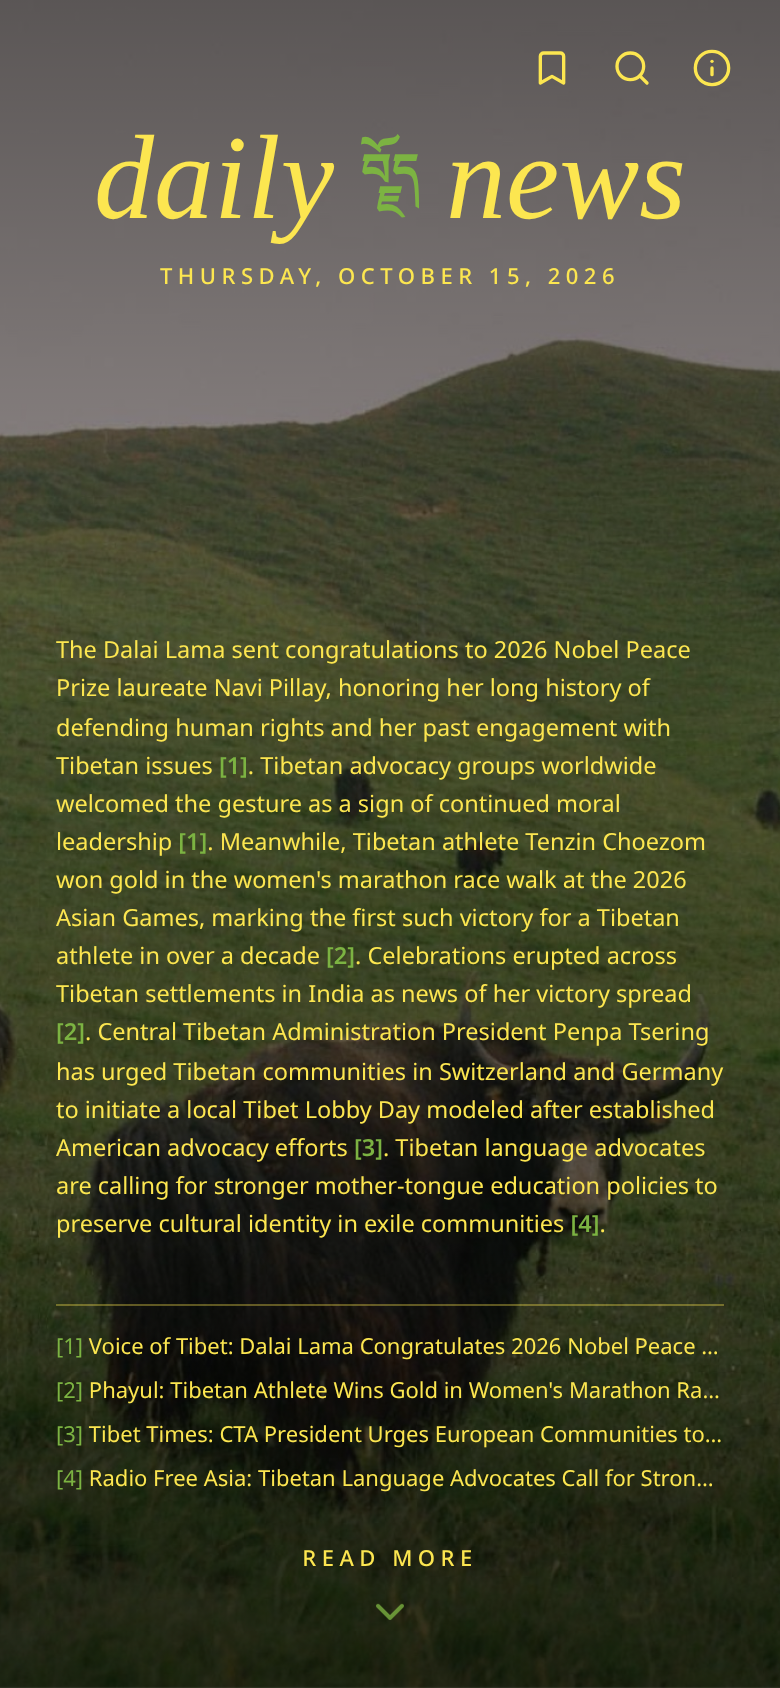
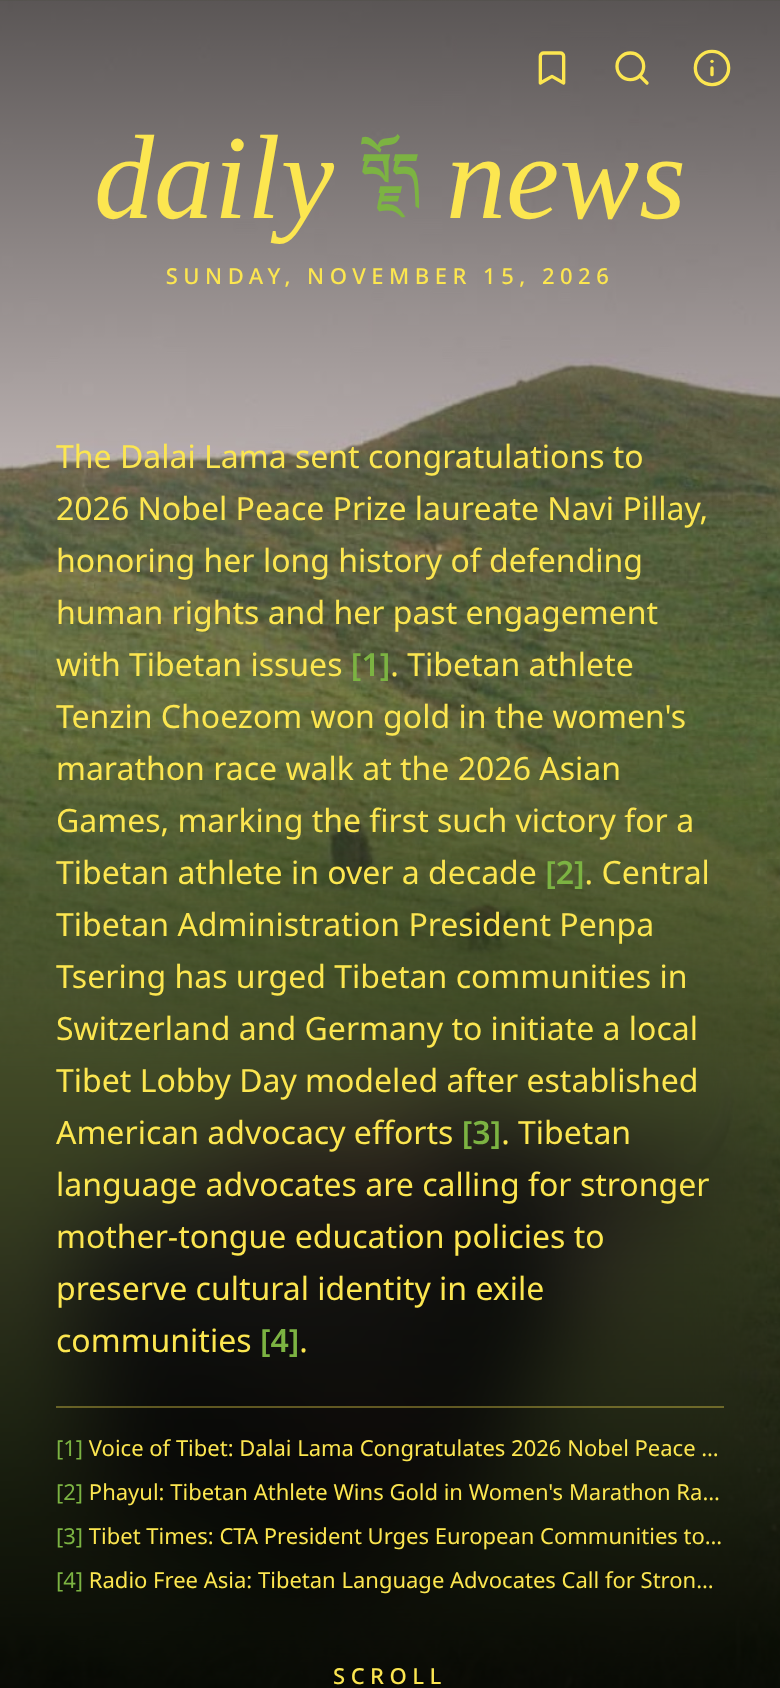
Scrollable Daily homepage: blurred hero, black article feed, dark mode only

diff --git a/client/src/pages/daily-homepage.tsx b/client/src/pages/daily-homepage.tsx
@@ -1,15 +1,20 @@
-import { useEffect, useLayoutEffect, useRef, useState } from 'react';
+import { useEffect, useRef, useState } from 'react';
 import { useNavigate } from 'react-router-dom';
 import { Bookmark, ChevronDown, Info, Search } from 'lucide-react';
 import { BhoeJaSeal } from '../components/bhoe-ja-seal';
 import { AboutSheet } from '../components/about-sheet';
 import { SearchDialog } from '../components/search-dialog';
+import { ArticleFeed } from './article-feed';
+import { VideoFeed } from './video-feed';
 import { useAppStore } from '../store/app-store';
 import { fetchDailySummary } from '../lib/api';
 import { EMPTY_FILTERS, type DailySummary, type SearchFilters } from '../types';
+import { cn } from '../lib/utils';
 
 const TEXT_YELLOW = '#fce650';
 const ACCENT_CLOVER = '#7CB342';
+
+type FeedTab = 'english' | 'tibetan' | 'videos';
 
 /** Render the overview with [N] citation markers in the accent green. */
 function CitedOverview({ text }: { text: string }) {
@@ -104,8 +109,8 @@ export function DailyHomepage({
   const [failed, setFailed] = useState(false);
   const [searchOpen, setSearchOpen] = useState(false);
   const [aboutOpen, setAboutOpen] = useState(false);
-  const summarySectionRef = useRef<HTMLElement>(null);
-  const summaryTextRef = useRef<HTMLParagraphElement>(null);
+  const [feedTab, setFeedTab] = useState<FeedTab>('english');
+  const feedRef = useRef<HTMLElement>(null);
 
   useEffect(() => {
     let cancelled = false;
@@ -121,67 +126,54 @@ export function DailyHomepage({
     };
   }, []);
 
-  // Fluid summary type: binary-search the largest font size at which the full
-  // digest fits in the available space, so the whole page always fits on one
-  // screen with the 20dvh header gap intact.
-  useLayoutEffect(() => {
-    const section = summarySectionRef.current;
-    const p = summaryTextRef.current;
-    if (!section || !p) return;
-
-    const fit = () => {
-      const available = section.clientHeight;
-      if (available <= 0) return;
-      const isDesktop = window.matchMedia('(min-width: 768px)').matches;
-      const minSize = isDesktop ? 12 : 10;
-      const maxSize = isDesktop ? 24 : 16;
-      let lo = minSize;
-      let hi = maxSize;
-      for (let i = 0; i < 10; i++) {
-        const mid = (lo + hi) / 2;
-        p.style.fontSize = `${mid}px`;
-        if (p.offsetHeight <= available) {
-          lo = mid;
-        } else {
-          hi = mid;
-        }
-      }
-      p.style.fontSize = `${lo}px`;
-      // Graceful fallback: if even the minimum size overflows (pathologically
-      // long digest), fade the bottom edge to signal continuation.
-      section.style.maskImage =
-        p.offsetHeight > available
-          ? 'linear-gradient(to bottom, black 82%, transparent)'
-          : 'none';
-    };
-
-    fit();
-    // Re-fit once webfonts settle, in case metrics shifted under fallback fonts.
-    if (document.fonts) {
-      document.fonts.ready.then(() => fit()).catch(() => {});
-    }
-    window.addEventListener('resize', fit);
-    return () => window.removeEventListener('resize', fit);
-  }, [summary, failed]);
+  const scrollToFeed = () => {
+    feedRef.current?.scrollIntoView({ behavior: 'smooth' });
+  };
 
   return (
-    <div className="w-full overflow-hidden bg-background">
-      {/* Centered artwork column: 50vw on desktop, full-bleed on mobile */}
-      <div
-        className="relative mx-auto h-[100dvh] w-full md:w-[50vw]"
-        style={{
-          backgroundImage: 'url(/hero/daily-yak-field.jpg)',
-          backgroundSize: 'cover',
-          backgroundPosition: 'center',
-        }}
-      >
-        {/* Dark scrim so the yellow text reads over the artwork */}
+    <div className="w-full bg-black">
+      {/* Hero: yak artwork, sharp at the top, blurred at the bottom where the
+          briefing sits, fading into the black feed below. */}
+      <div className="relative mx-auto w-full md:w-[50vw]">
+        {/* The artwork itself */}
         <div
           aria-hidden="true"
           className="absolute inset-0"
           style={{
+            backgroundImage: 'url(/hero/daily-yak-field.jpg)',
+            backgroundSize: 'cover',
+            backgroundPosition: '50% 35%',
+          }}
+        />
+        {/* Top scrim so the masthead reads over the sky */}
+        <div
+          aria-hidden="true"
+          className="absolute inset-x-0 top-0 h-[30%]"
+          style={{
             background:
-              'linear-gradient(to bottom, rgba(0,0,0,0.55), rgba(0,0,0,0.28) 35%, rgba(0,0,0,0.38) 60%, rgba(0,0,0,0.68))',
+              'linear-gradient(to bottom, rgba(0,0,0,0.55), rgba(0,0,0,0))',
+          }}
+        />
+        {/* Blurred bottom: the same image, blurred only toward its own bottom
+            edge, darkening into black. */}
+        <div
+          aria-hidden="true"
+          className="absolute inset-x-0 bottom-0 h-[62%]"
+          style={{
+            backdropFilter: 'blur(24px)',
+            WebkitBackdropFilter: 'blur(24px)',
+            maskImage:
+              'linear-gradient(to bottom, transparent, black 35%)',
+            WebkitMaskImage:
+              'linear-gradient(to bottom, transparent, black 35%)',
+          }}
+        />
+        <div
+          aria-hidden="true"
+          className="absolute inset-x-0 bottom-0 h-[62%]"
+          style={{
+            background:
+              'linear-gradient(to bottom, rgba(0,0,0,0) 0%, rgba(0,0,0,0.45) 45%, rgba(0,0,0,1) 100%)',
           }}
         />
 
@@ -234,7 +226,7 @@ export function DailyHomepage({
         </div>
 
         <div
-          className="relative z-10 flex h-full flex-col"
+          className="relative z-10 flex flex-col"
           style={{ color: TEXT_YELLOW }}
         >
           {/* Header */}
@@ -254,28 +246,20 @@ export function DailyHomepage({
             </p>
           </header>
 
-          {/* Spacer: ~20% of viewport height between header and summary */}
-          <div className="h-[20dvh] shrink-0" />
+          {/* Tight gap between header and summary */}
+          <div className="h-[8dvh] shrink-0 md:h-[10dvh]" />
 
-          {/* Summary: flexes to fill available space; font size auto-fits via JS
-              so the full digest always fits on one screen */}
+          {/* Summary on the blurred zone */}
           <section
-            ref={summarySectionRef}
-            className="daily-entrance min-h-0 flex-1 overflow-hidden px-7 md:px-12"
+            className="daily-entrance px-7 md:px-12"
             style={{ animationDelay: '90ms' }}
           >
             {summary ? (
-              <p
-                ref={summaryTextRef}
-                className="daily-fade-in text-left leading-relaxed"
-              >
+              <p className="daily-fade-in text-left text-base leading-relaxed md:text-xl">
                 <CitedOverview text={summary.overview} />
               </p>
             ) : failed ? (
-              <p
-                ref={summaryTextRef}
-                className="text-left leading-relaxed opacity-70"
-              >
+              <p className="text-left text-base leading-relaxed opacity-70 md:text-xl">
                 Today&apos;s briefing isn&apos;t ready yet.
               </p>
             ) : (
@@ -285,7 +269,7 @@ export function DailyHomepage({
 
           {/* Divider + sources */}
           <section
-            className="daily-entrance mt-5 shrink-0 px-7 md:px-12"
+            className="daily-entrance mt-5 px-7 md:px-12"
             style={{ animationDelay: '180ms' }}
           >
             <hr
@@ -310,8 +294,6 @@ export function DailyHomepage({
                         {source.site}: {source.title}
                       </span>
                     </a>
-                    {/* Desktop: date only (site is already up front);
-                        mobile shows site + title */}
                     {source.publishedAt && (
                       <span
                         className="hidden opacity-70 md:inline"
@@ -328,22 +310,22 @@ export function DailyHomepage({
             </div>
           </section>
 
-          {/* Read more */}
+          {/* Scroll cue: drops to the article list below */}
           <div
-            className="daily-entrance mt-4 shrink-0 pb-7 text-center"
+            className="daily-entrance mt-6 shrink-0 pb-8 text-center"
             style={{ animationDelay: '270ms' }}
           >
             <button
               type="button"
-              onClick={() => navigate('/articles')}
+              onClick={scrollToFeed}
               className="group inline-flex flex-col items-center gap-1 bg-transparent"
-              aria-label="Read all articles"
+              aria-label="Scroll to articles"
             >
               <span
                 className="text-[11px] font-medium uppercase tracking-[0.25em] transition group-hover:brightness-125"
                 style={{ color: TEXT_YELLOW }}
               >
-                read more
+                scroll
               </span>
               <ChevronDown
                 className={`h-6 w-6 transition-transform group-hover:-translate-y-0.5 ${summary ? 'animate-daily-bounce-once' : ''}`}
@@ -354,16 +336,65 @@ export function DailyHomepage({
         </div>
       </div>
 
+      {/* Article list on pure black, inline on the homepage. */}
+      <section ref={feedRef} className="bg-black pb-16">
+        {/* Sticky feed tabs: English / Tibetan / Videos, no All. */}
+        <div className="sticky top-0 z-30 bg-black/95 py-4 backdrop-blur">
+          <div
+            className="mx-auto flex max-w-3xl justify-center gap-2 px-4"
+            role="tablist"
+            aria-label="Article feed"
+          >
+            {(
+              [
+                { id: 'english', label: 'English' },
+                { id: 'tibetan', label: 'Tibetan' },
+                { id: 'videos', label: 'Videos' },
+              ] as { id: FeedTab; label: string }[]
+            ).map((tab) => (
+              <button
+                key={tab.id}
+                type="button"
+                role="tab"
+                aria-selected={feedTab === tab.id}
+                onClick={() => setFeedTab(tab.id)}
+                className={cn(
+                  'rounded-full px-5 py-2 text-sm font-medium transition',
+                  feedTab === tab.id
+                    ? 'text-black'
+                    : 'text-white/60 hover:text-white',
+                )}
+                style={
+                  feedTab === tab.id
+                    ? { backgroundColor: ACCENT_CLOVER }
+                    : undefined
+                }
+              >
+                {tab.label}
+              </button>
+            ))}
+          </div>
+        </div>
+
+        <div className="mx-auto max-w-3xl px-4 pt-6">
+          {feedTab === 'videos' ? (
+            <VideoFeed filters={filters} />
+          ) : (
+            <ArticleFeed inTibetan={feedTab === 'tibetan'} filters={filters} />
+          )}
+        </div>
+      </section>
+
       <SearchDialog
         open={searchOpen}
         onOpenChange={setSearchOpen}
         initialValue={filters.searchValue}
         onSearch={(query) => {
+          // Search filters the inline feed; stay on the homepage.
           onFiltersChange({
             ...EMPTY_FILTERS,
             searchValue: query ? query : undefined,
           });
-          navigate('/articles');
         }}
       />
       <AboutSheet open={aboutOpen} onOpenChange={setAboutOpen} />

diff --git a/client/src/components/about-sheet.tsx b/client/src/components/about-sheet.tsx
@@ -1,4 +1,3 @@
-import { Moon } from 'lucide-react';
 import { Separator } from './ui/separator';
 import {
   Sheet,
@@ -7,9 +6,7 @@ import {
   SheetHeader,
   SheetTitle,
 } from './ui/sheet';
-import { Switch } from './ui/switch';
 import { SourceType, sourceListing } from '../lib/sources';
-import { useAppStore } from '../store/app-store';
 
 const articleSources = sourceListing.filter(
   (s) => s.type === SourceType.Article
@@ -22,22 +19,12 @@ interface AboutSheetProps {
 }
 
 export function AboutSheet({ open, onOpenChange }: AboutSheetProps) {
-  const { darkMode, setDarkMode } = useAppStore();
-
   return (
     <Sheet open={open} onOpenChange={onOpenChange}>
       <SheetContent side="bottom" className="sm:mx-auto sm:max-w-2xl">
         <SheetHeader className="text-left">
           <div className="flex items-center justify-between pr-8">
             <SheetTitle className="text-xl text-primary">About BhoeJa</SheetTitle>
-            <div className="flex items-center gap-2">
-              <Moon className="h-4 w-4 text-muted-foreground" />
-              <Switch
-                checked={darkMode}
-                onCheckedChange={setDarkMode}
-                aria-label="Dark mode"
-              />
-            </div>
           </div>
           <SheetDescription>
             <span className="italic">

diff --git a/client/src/store/app-store.tsx b/client/src/store/app-store.tsx
@@ -33,17 +33,11 @@ function saveBookmarks(bookmarks: Bookmark[]): void {
   localStorage.setItem(BOOKMARK_KEY, JSON.stringify({ bookmarks }));
 }
 
+// Dark mode only for now (light mode removed Oct 2026, see Daily homepage
+// redesign). The toggle, the light-theme CSS variables, and setDarkMode all
+// stay in place so light mode comes back by restoring the toggle UI alone.
+// Until then, always return dark regardless of any stored preference.
 function loadDarkMode(): boolean {
-  try {
-    const raw = localStorage.getItem(DARK_MODE_KEY);
-    if (!raw) return true;
-    const parsed = JSON.parse(raw);
-    if (parsed && typeof parsed.darkMode === 'boolean') {
-      return parsed.darkMode;
-    }
-  } catch (e) {
-    console.error(`Error restoring dark mode: ${e}`);
-  }
   return true;
 }
 
